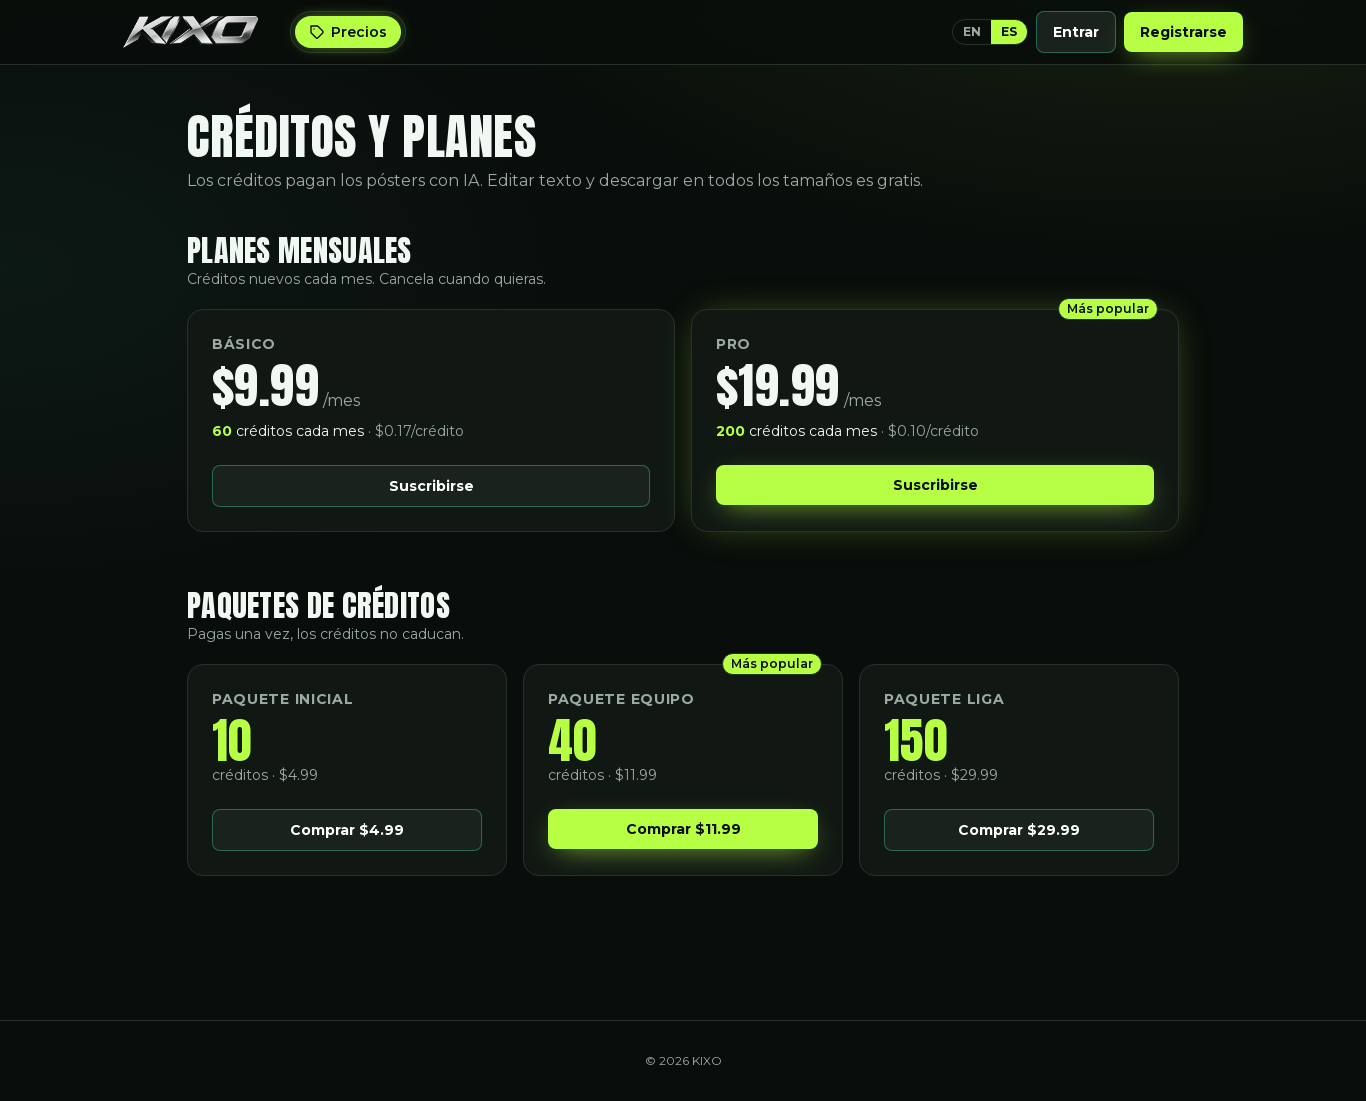
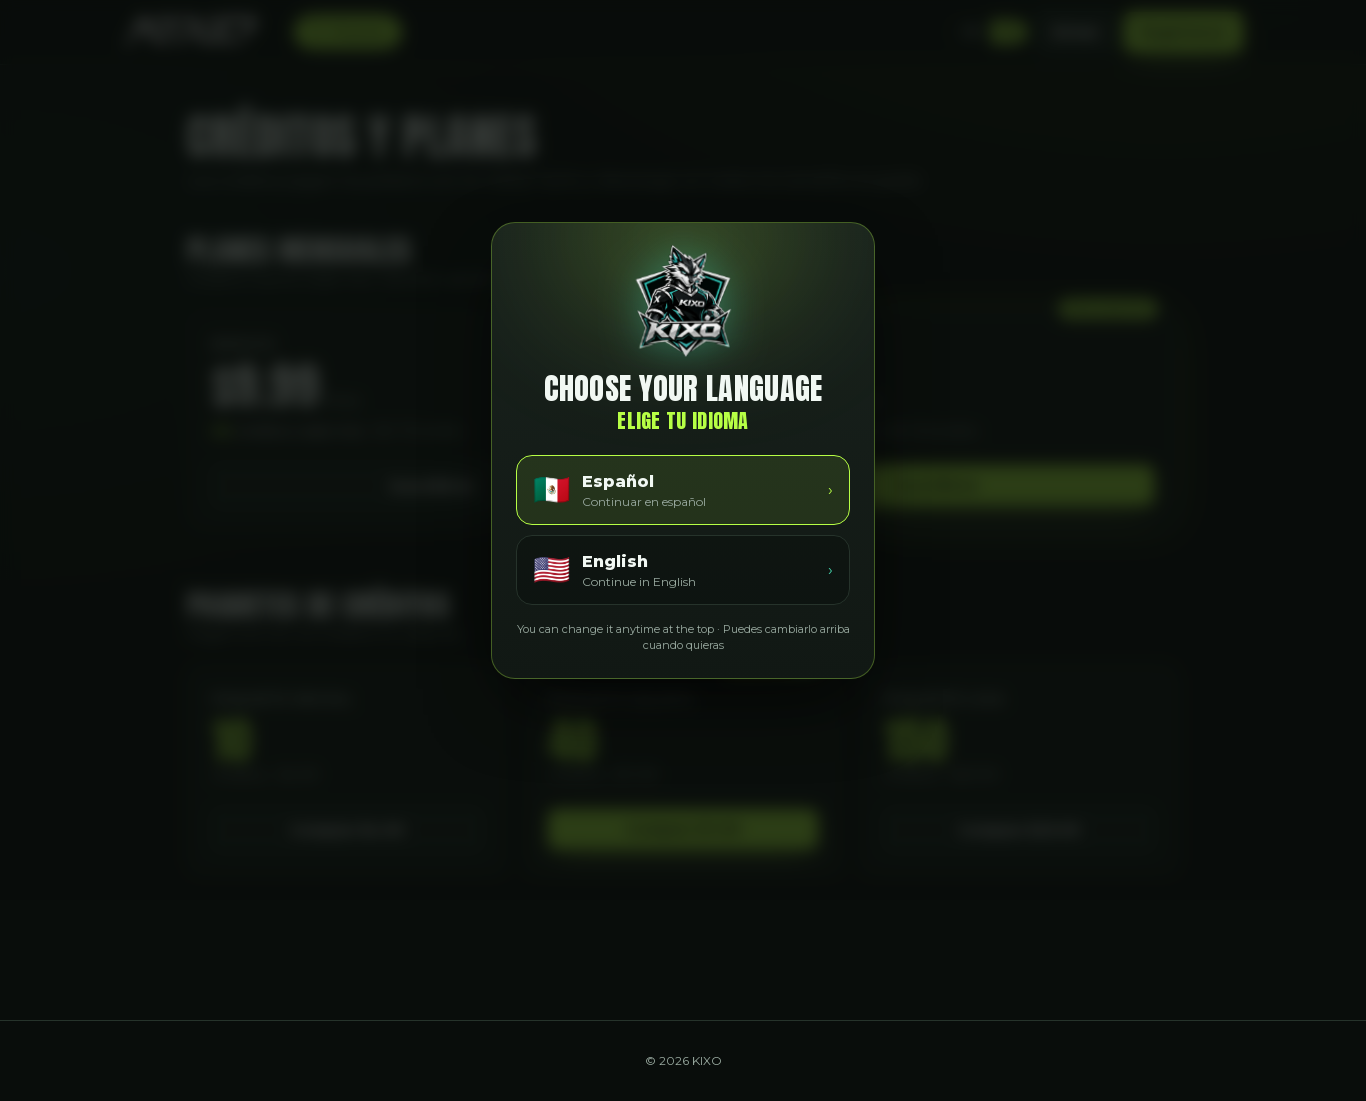
ci-results

diff --git a/src/components/LangPrompt.tsx b/src/components/LangPrompt.tsx
@@ -1,0 +1,53 @@
+"use client";
+
+import { useEffect, useState } from "react";
+
+/** First visit: asks which language to use (shown only until a language is chosen). */
+export function LangPrompt({ suggested }: { suggested: "en" | "es" }) {
+  const [show, setShow] = useState(false);
+  useEffect(() => {
+    const t = setTimeout(() => setShow(true), 350);
+    return () => clearTimeout(t);
+  }, []);
+  if (!show) return null;
+  const go = (l: "en" | "es") => {
+    const next = window.location.pathname + window.location.search;
+    window.location.href = `/api/locale?l=${l}&next=${encodeURIComponent(next)}`;
+  };
+  const opts = [
+    { l: "en" as const, flag: "🇺🇸", name: "English", sub: "Continue in English" },
+    { l: "es" as const, flag: "🇲🇽", name: "Español", sub: "Continuar en español" },
+  ].sort((a) => (a.l === suggested ? -1 : 1));
+
+  return (
+    <div className="fixed inset-0 z-[100] grid place-items-center bg-ink/80 p-4 backdrop-blur-sm" role="dialog" aria-modal="true" aria-label="Choose your language">
+      <div className="kixo-fade-up relative w-full max-w-sm overflow-hidden rounded-3xl border border-lime/30 bg-gradient-to-b from-panel-2 to-panel p-6 text-center shadow-[0_30px_80px_-20px_rgba(0,0,0,0.9)]">
+        <div className="pointer-events-none absolute -top-16 left-1/2 h-40 w-64 -translate-x-1/2 rounded-full bg-lime/20 blur-3xl" />
+        {/* eslint-disable-next-line @next/next/no-img-element */}
+        <img src="/kixo-hero-logo.webp" alt="KIXO" className="kixo-logo-float relative mx-auto h-28 w-auto drop-shadow-[0_0_20px_rgba(70,213,174,0.4)]" />
+        <h2 className="font-display relative mt-3 text-3xl tracking-wide">
+          Choose your language
+          <span className="block text-xl text-lime">Elige tu idioma</span>
+        </h2>
+        <div className="relative mt-5 space-y-2.5">
+          {opts.map((o, i) => (
+            <button
+              key={o.l}
+              type="button"
+              onClick={() => go(o.l)}
+              className={`flex w-full items-center gap-3 rounded-2xl border px-4 py-3.5 text-left transition hover:-translate-y-0.5 ${i === 0 ? "border-lime bg-lime/10 hover:bg-lime/15" : "border-line bg-ink/40 hover:border-teal/60"}`}
+            >
+              <span className="text-3xl">{o.flag}</span>
+              <span className="flex-1">
+                <span className="block font-extrabold">{o.name}</span>
+                <span className="block text-xs text-muted">{o.sub}</span>
+              </span>
+              <span className={i === 0 ? "text-lime" : "text-teal"}>›</span>
+            </button>
+          ))}
+        </div>
+        <p className="relative mt-4 text-[11px] text-muted">You can change it anytime at the top · Puedes cambiarlo arriba cuando quieras</p>
+      </div>
+    </div>
+  );
+}

diff --git a/src/app/layout.tsx b/src/app/layout.tsx
@@ -5,6 +5,9 @@ import { getLocale } from "@/i18n/server";
 import { I18nProvider } from "@/i18n/client";
 import { Header } from "@/components/Header";
 import { RefCapture } from "@/components/RefCapture";
+import { LangPrompt } from "@/components/LangPrompt";
+import { cookies } from "next/headers";
+import { LOCALE_COOKIE } from "@/i18n/server";
 import { getSettings } from "@/lib/settings";
 import { getTextOverrides } from "@/i18n/overrides";
 
@@ -17,6 +20,7 @@ export const metadata: Metadata = {
 
 export default async function RootLayout({ children }: { children: React.ReactNode }) {
   const locale = await getLocale();
+  const chosen = !!(await cookies()).get(LOCALE_COOKIE)?.value;
   let notice = "";
   try {
     notice = (await getSettings()).maintenance_message;
@@ -29,6 +33,7 @@ export default async function RootLayout({ children }: { children: React.ReactNo
         <I18nProvider locale={locale} custom={(await getTextOverrides())[locale]}>
           {notice && <div className="bg-lime px-4 py-2 text-center text-sm font-bold text-ink">{notice}</div>}
           <RefCapture />
+          {!chosen && <LangPrompt suggested={locale} />}
           <Header />
           <main>{children}</main>
           <footer className="mt-24 border-t border-line py-8 text-center text-xs text-muted">

diff --git a/src/lib/referral.ts b/src/lib/referral.ts
@@ -12,12 +12,9 @@ export async function ensureRefCode(userId: string): Promise<string> {
   for (let i = 0; i < 5; i++) {
     const code = randomBytes(5).toString("base64url").replace(/[-_]/g, "").slice(0, 7).toUpperCase();
     if (code.length < 6) continue;
-    try {
-      await db.user.update({ where: { id: userId }, data: { refCode: code } });
-      return code;
-    } catch {
-      /* clash — try again */
-    }
+    if (await db.user.findFirst({ where: { refCode: code }, select: { id: true } })) continue;
+    await db.user.update({ where: { id: userId }, data: { refCode: code } });
+    return code;
   }
   throw new Error("could not create invite code");
 }

diff --git a/src/app/api/auth/register/route.ts b/src/app/api/auth/register/route.ts
@@ -26,7 +26,7 @@ export const POST = handle(async (req: NextRequest) => {
 
   // Invited by a friend? (?ref=CODE link → cookie)
   const refCode = req.cookies.get(REF_COOKIE)?.value?.trim().toUpperCase();
-  const referrer = refCode && /^[A-Z0-9]{4,12}$/.test(refCode) ? await db.user.findUnique({ where: { refCode }, select: { id: true } }) : null;
+  const referrer = refCode && /^[A-Z0-9]{4,12}$/.test(refCode) ? await db.user.findFirst({ where: { refCode }, select: { id: true } }) : null;
 
   const user = await db.user.create({
     data: {
